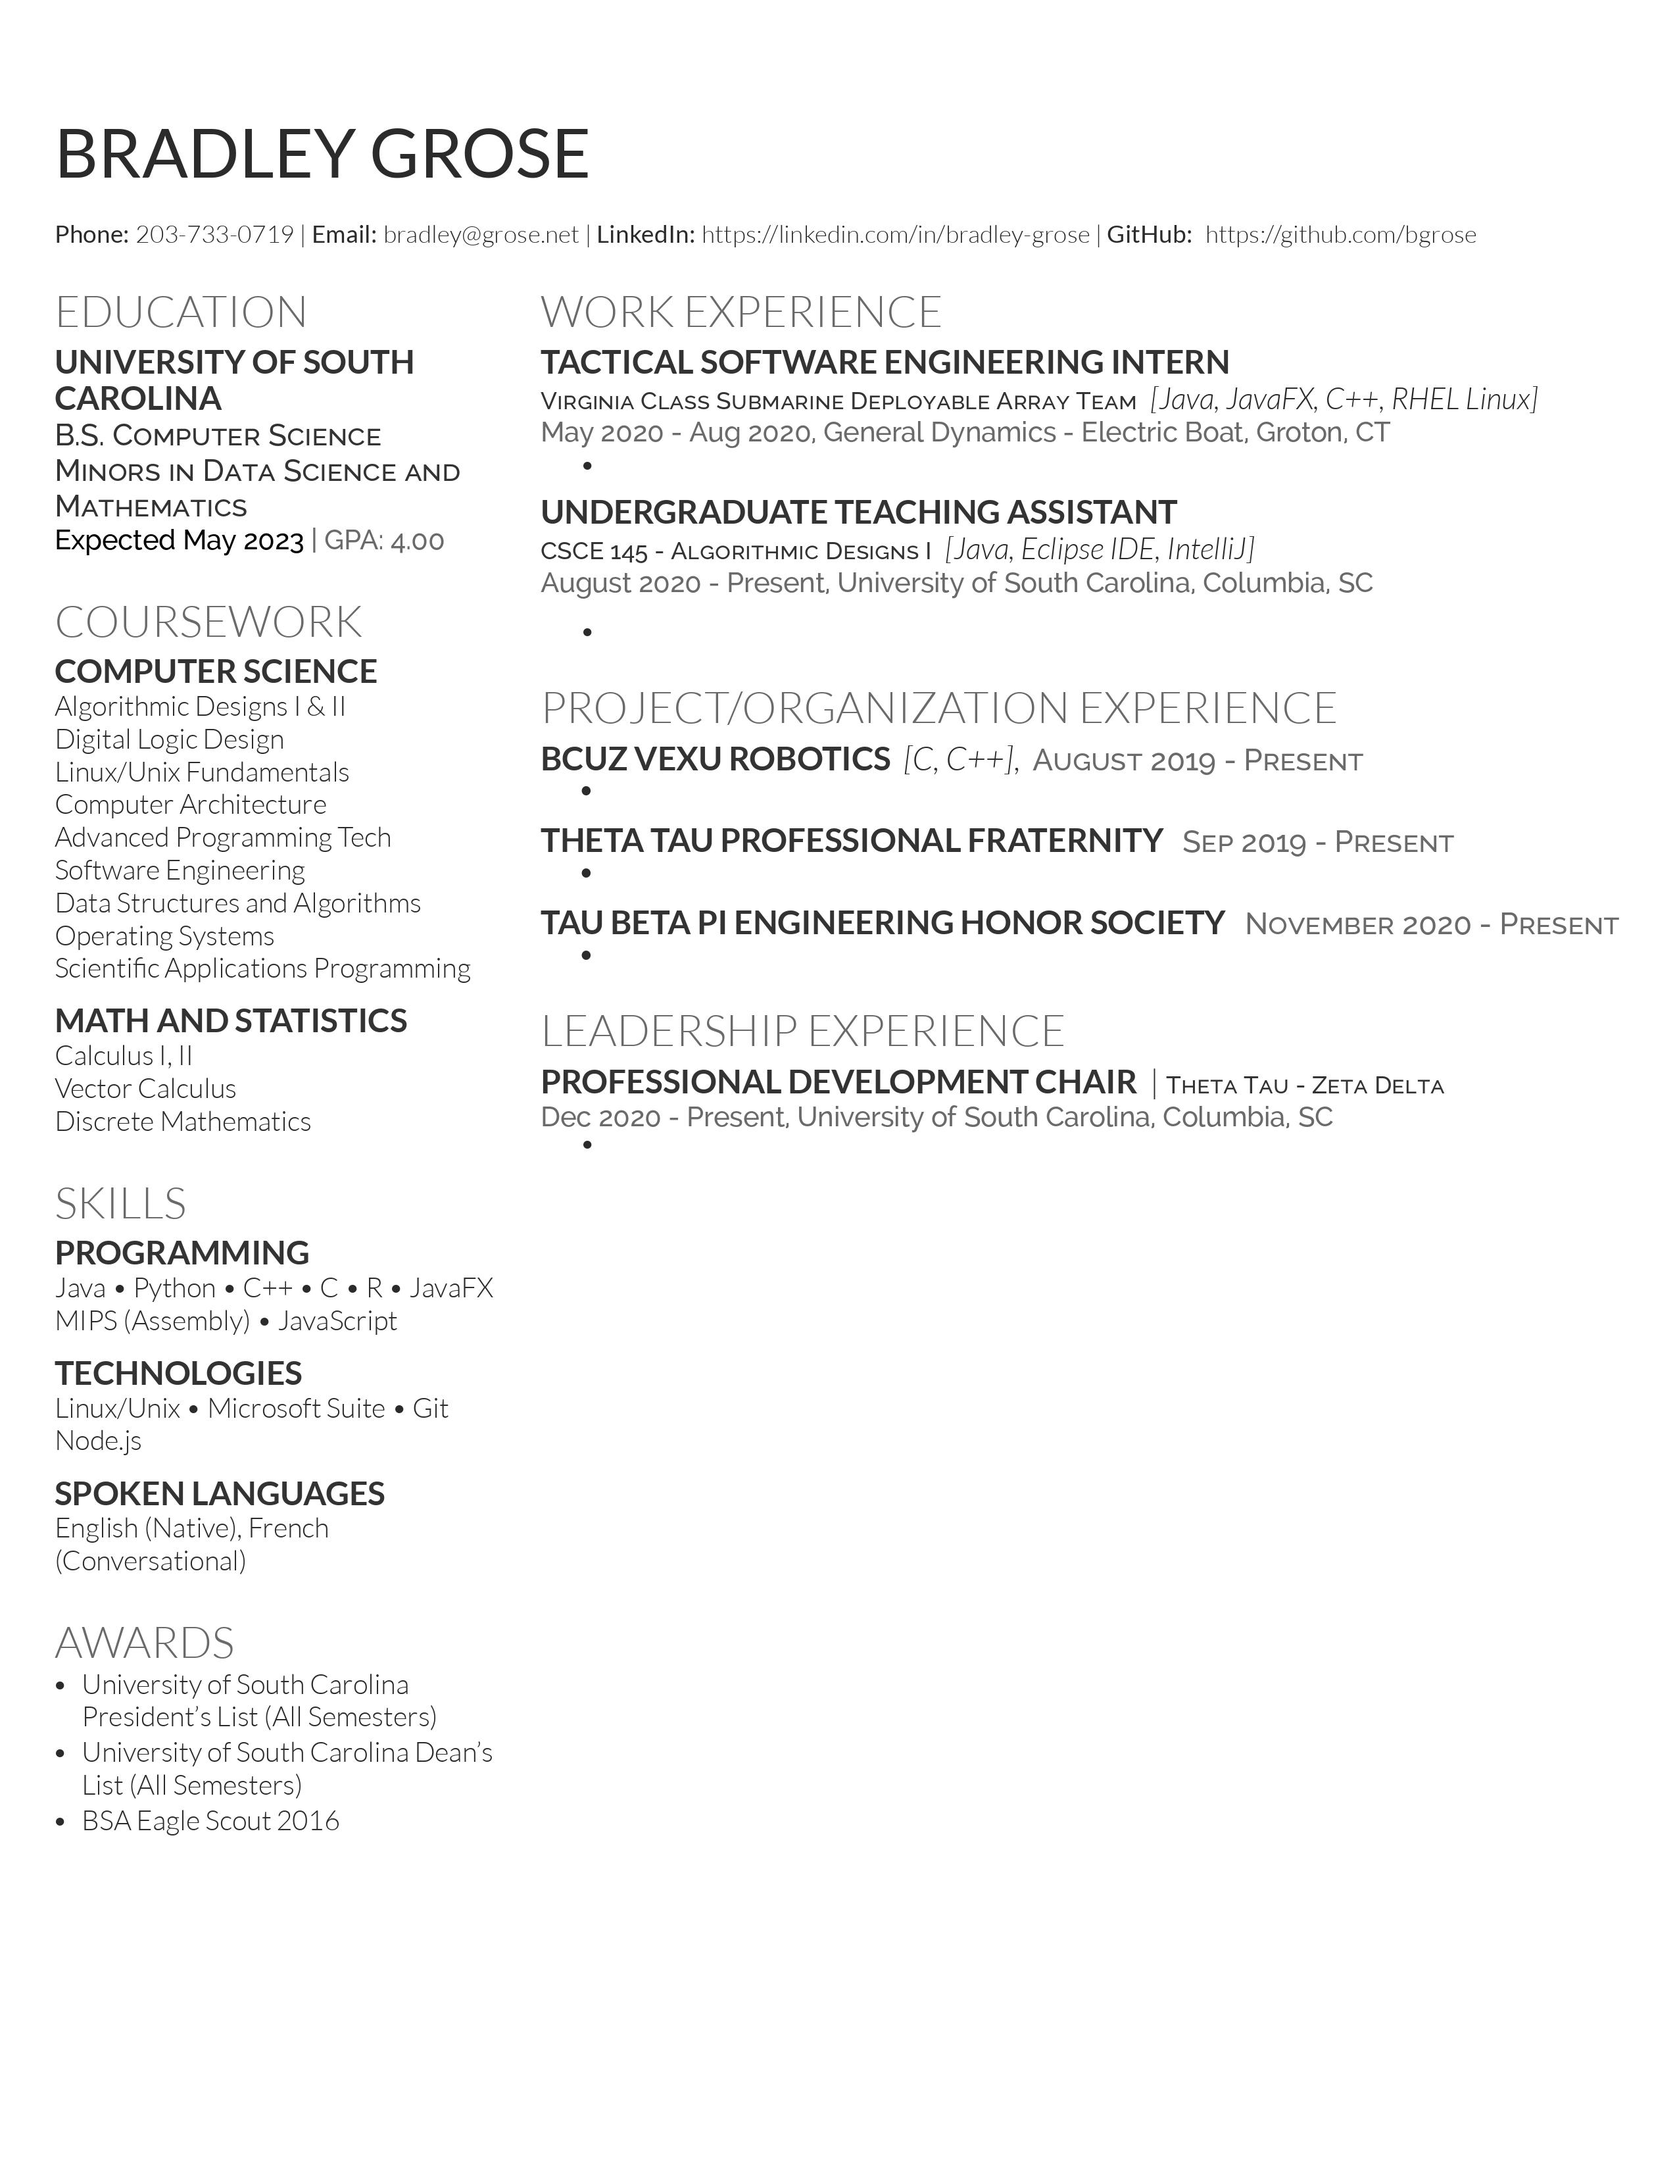
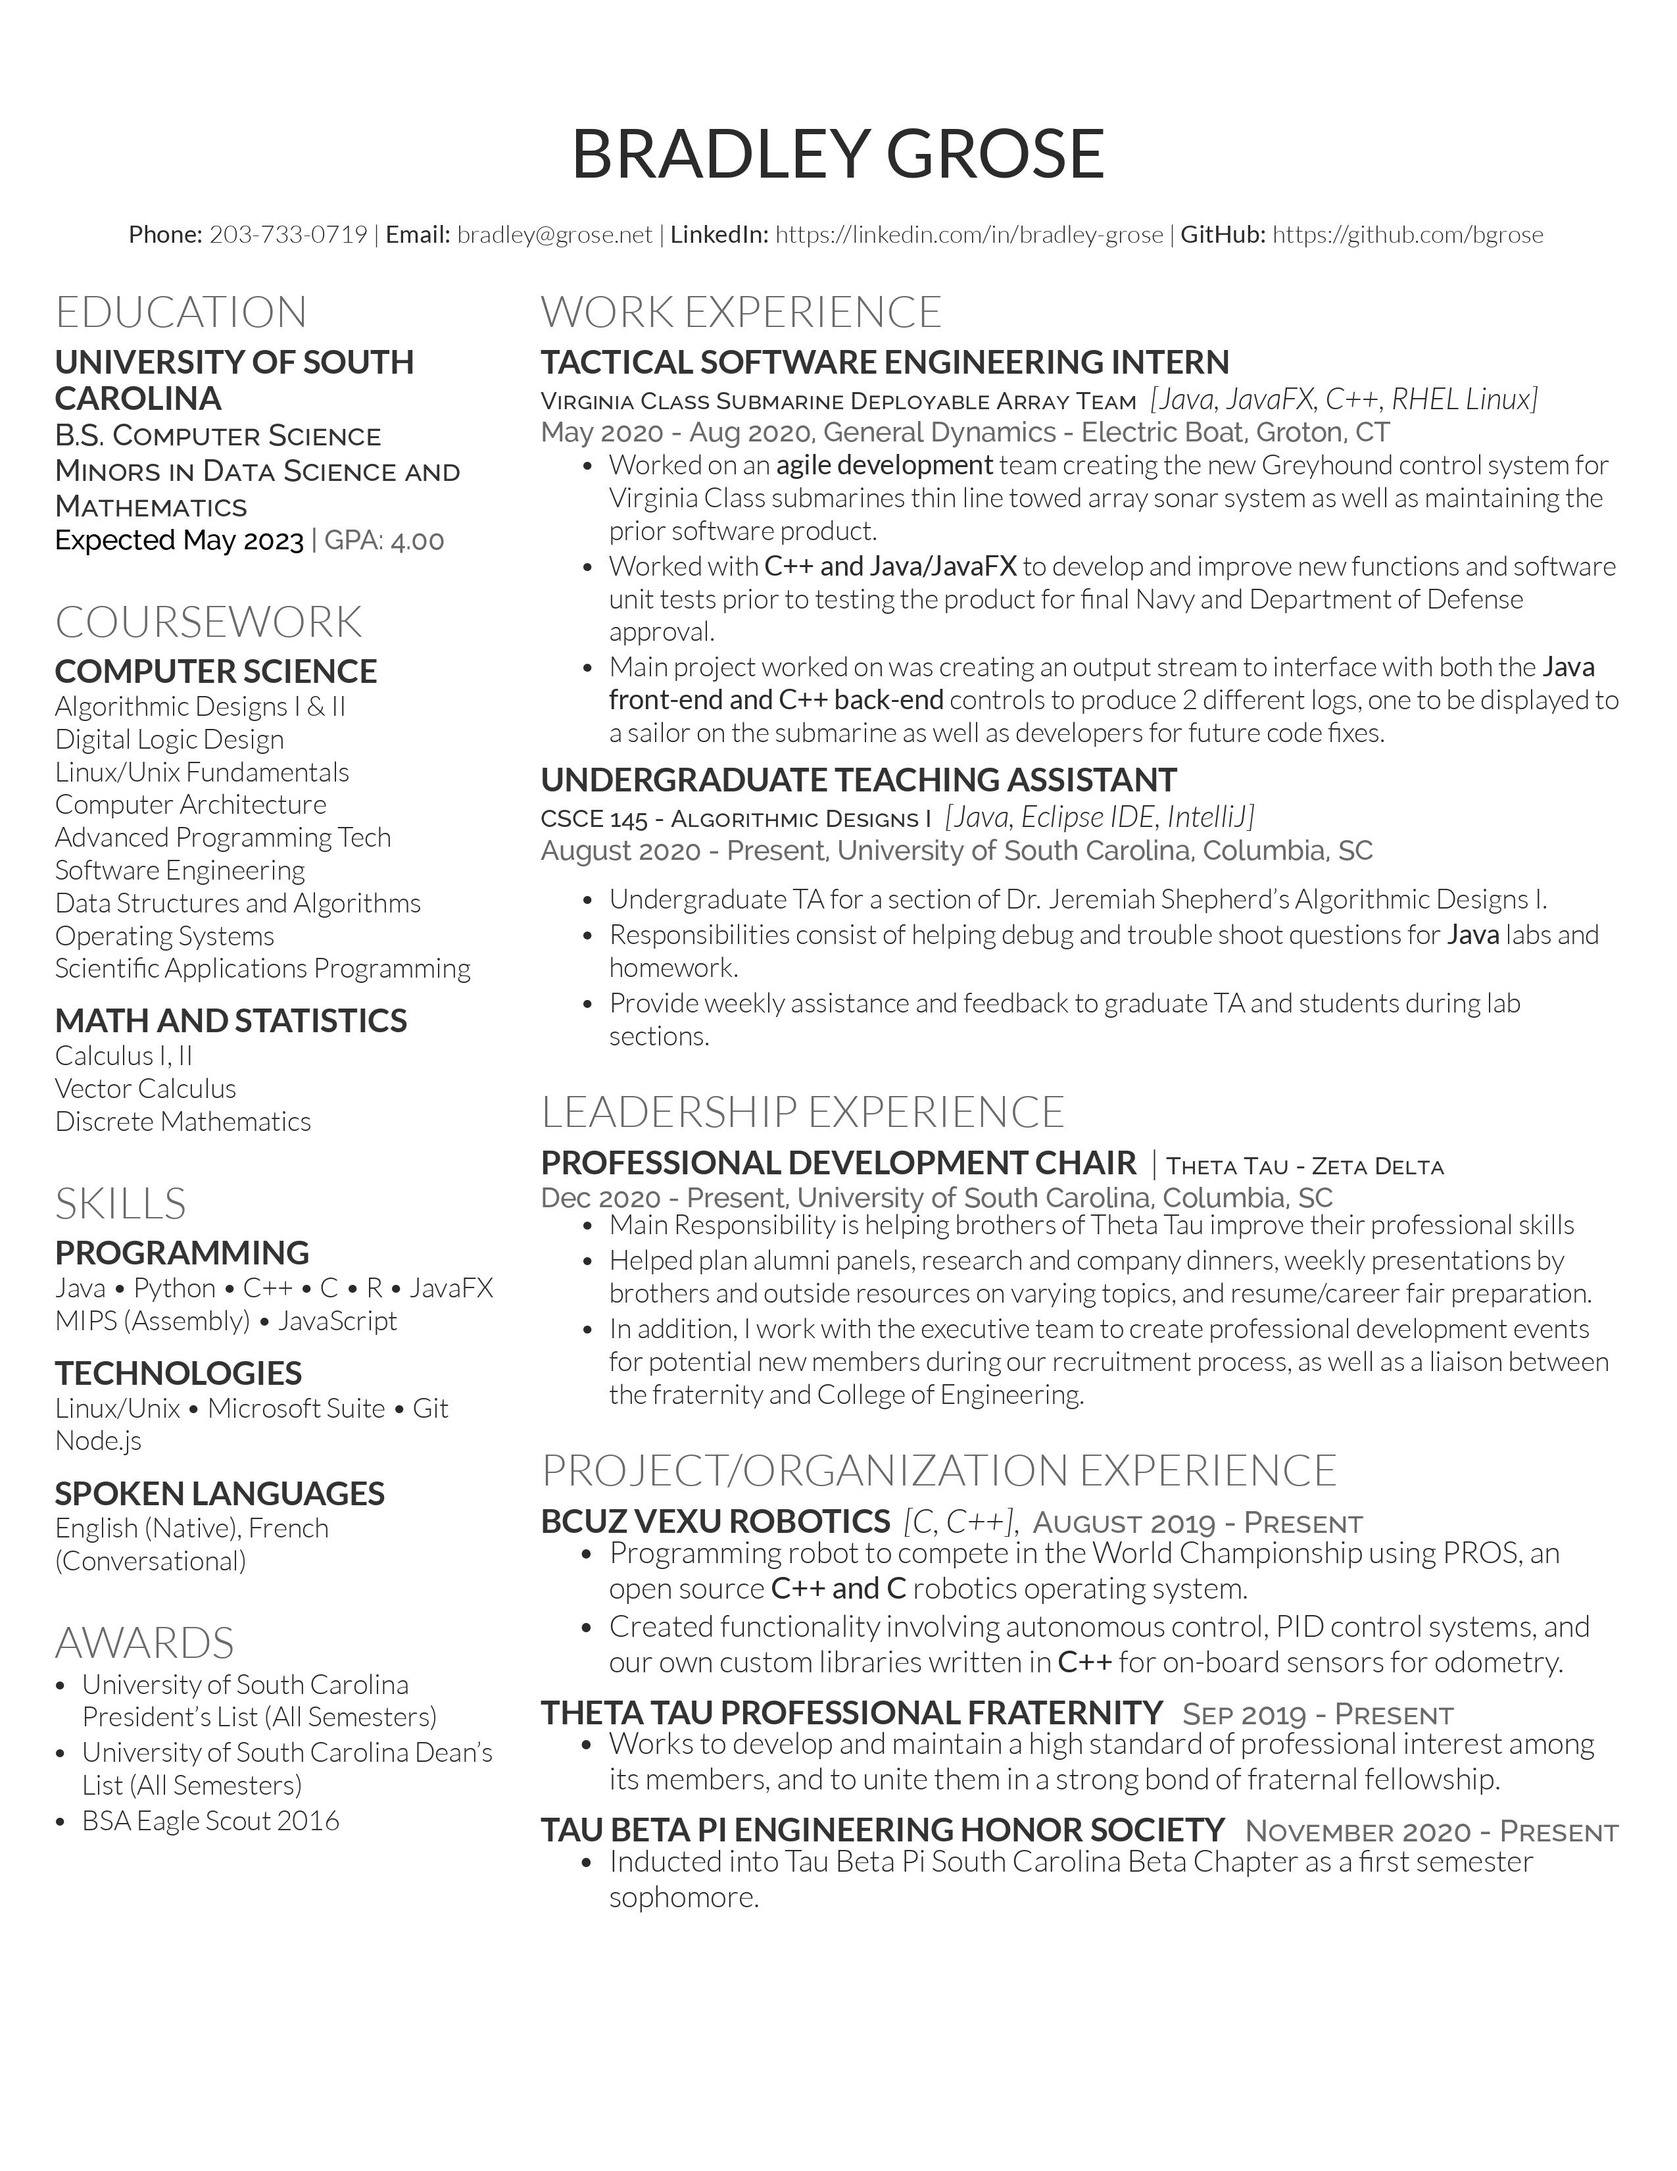
Updated Resume

Changed region(s): [[0.3098, 0.1873, 0.9604, 0.8739], [0.031, 0.0624, 0.6506, 0.1248], [0.6506, 0.0936, 0.7435, 0.1248]]

diff --git a/src/BGroseResume.tex b/src/BGroseResume.tex
@@ -21,7 +21,7 @@
 \textbf{Phone:} 203-733-0719 |
 \textbf{Email:} bradley@grose.net |
 \textbf{LinkedIn:} https://linkedin.com/in/bradley-grose | 
-\textbf{GitHub: } https://github.com/bgrose
+\textbf{GitHub:} https://github.com/bgrose
 \smallskip
 
 
@@ -112,8 +112,9 @@ English (Native), French (Conversational)
 \location{May 2020 - Aug 2020, General Dynamics - Electric Boat, Groton, CT}
 \vspace{\topsep} 
 \begin{tightitemize}
-\item 
-% \textbf{}
+\item Worked on an \textbf{agile development} team creating the new Greyhound control system for Virginia Class submarines thin line towed array sonar system as well as maintaining the prior software product.
+\item Worked with \textbf{C++ and Java/JavaFX} to develop and improve new functions and software unit tests prior to testing the product for final Navy and Department of Defense approval. 
+\item Main project worked on was creating an output stream to interface with both the \textbf{Java front-end and C++ back-end} controls to produce 2 different logs, one to be displayed to a sailor on the submarine as well as developers for future code fixes.
 \end{tightitemize}
 
 \sectionspace
